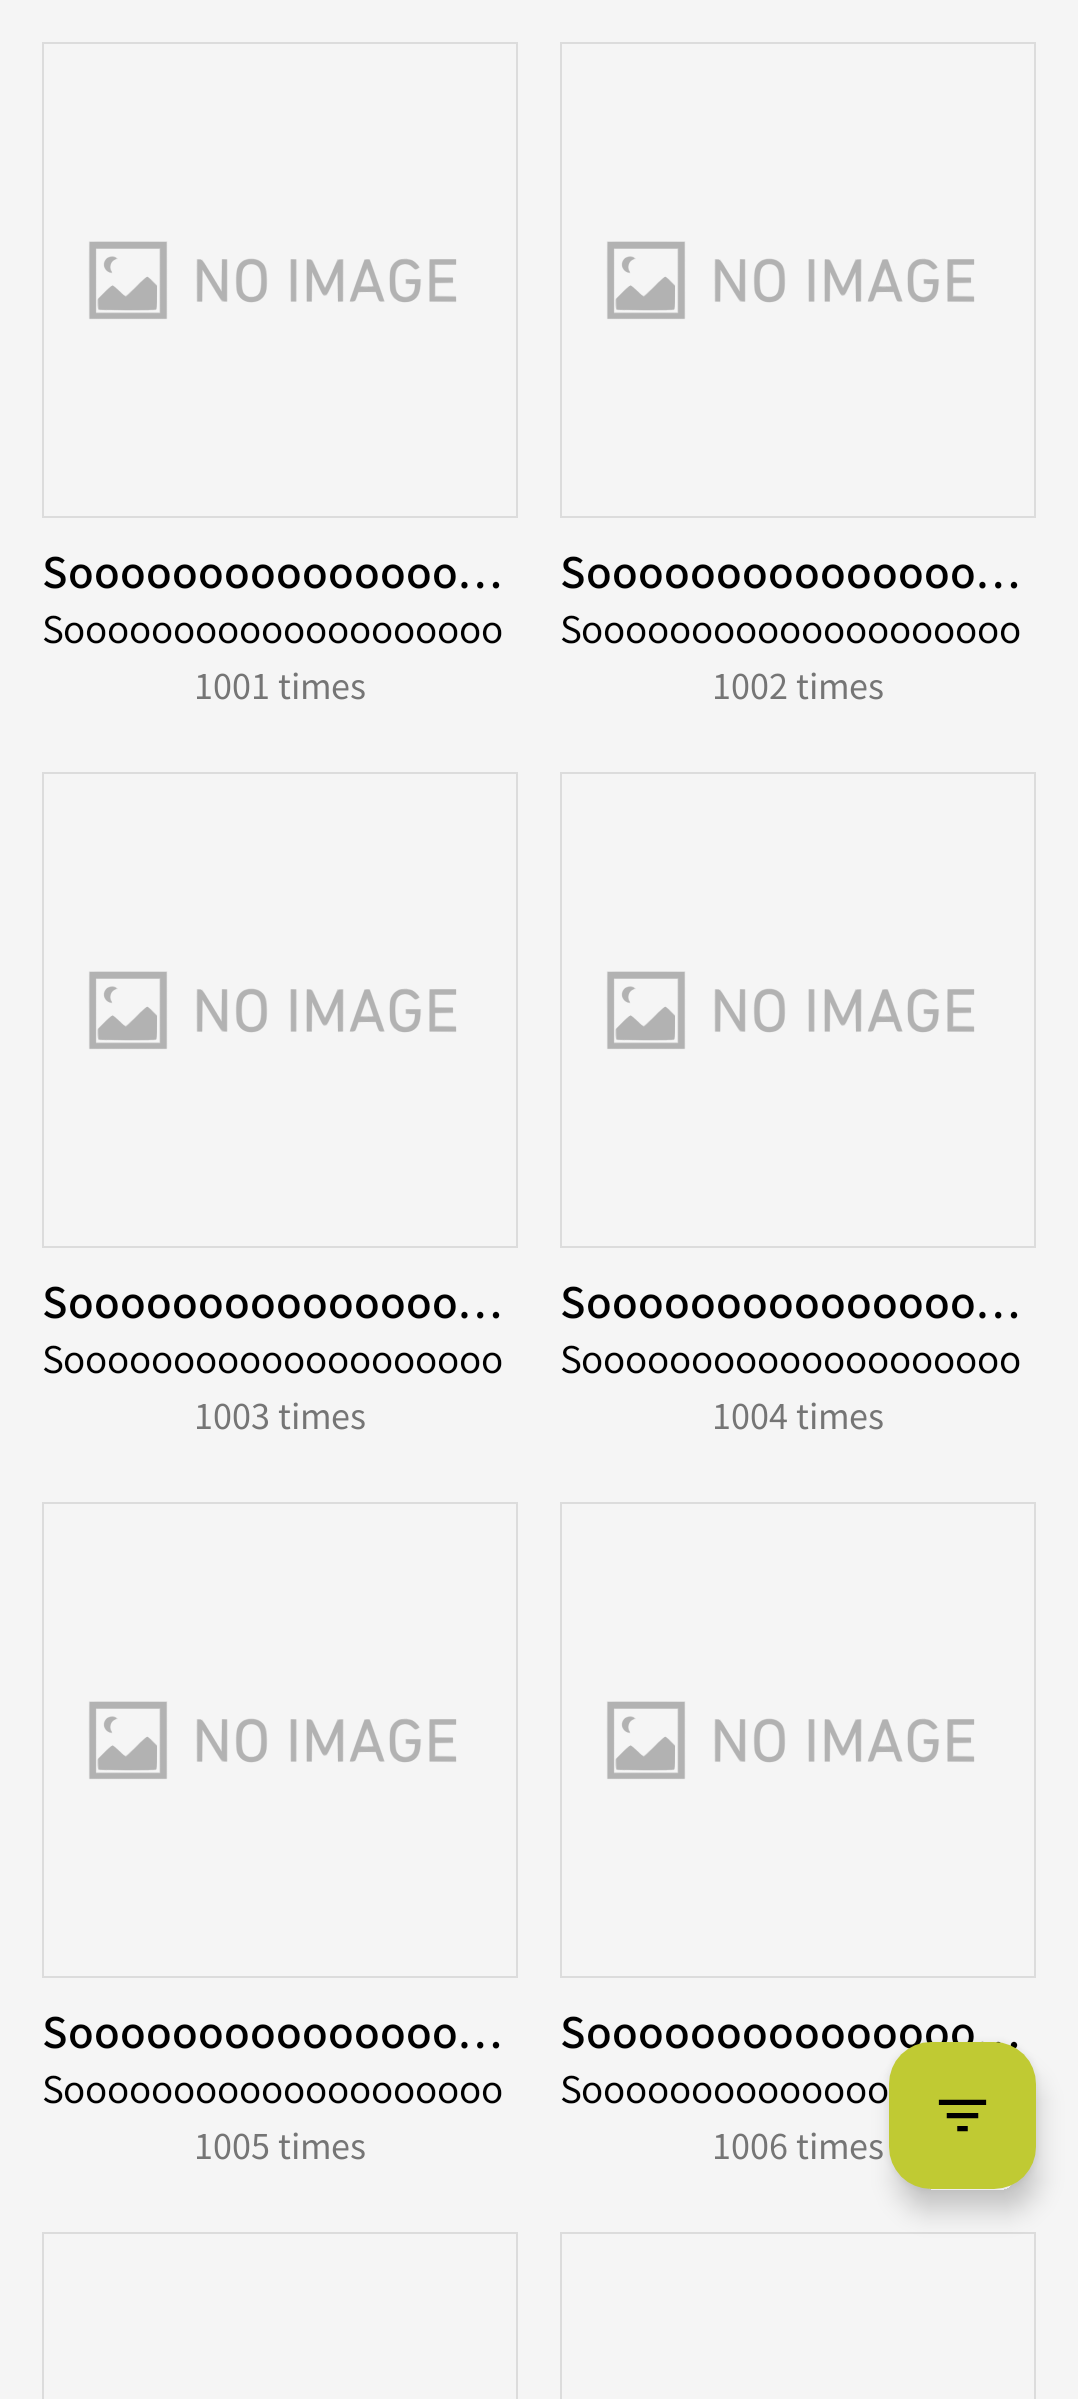
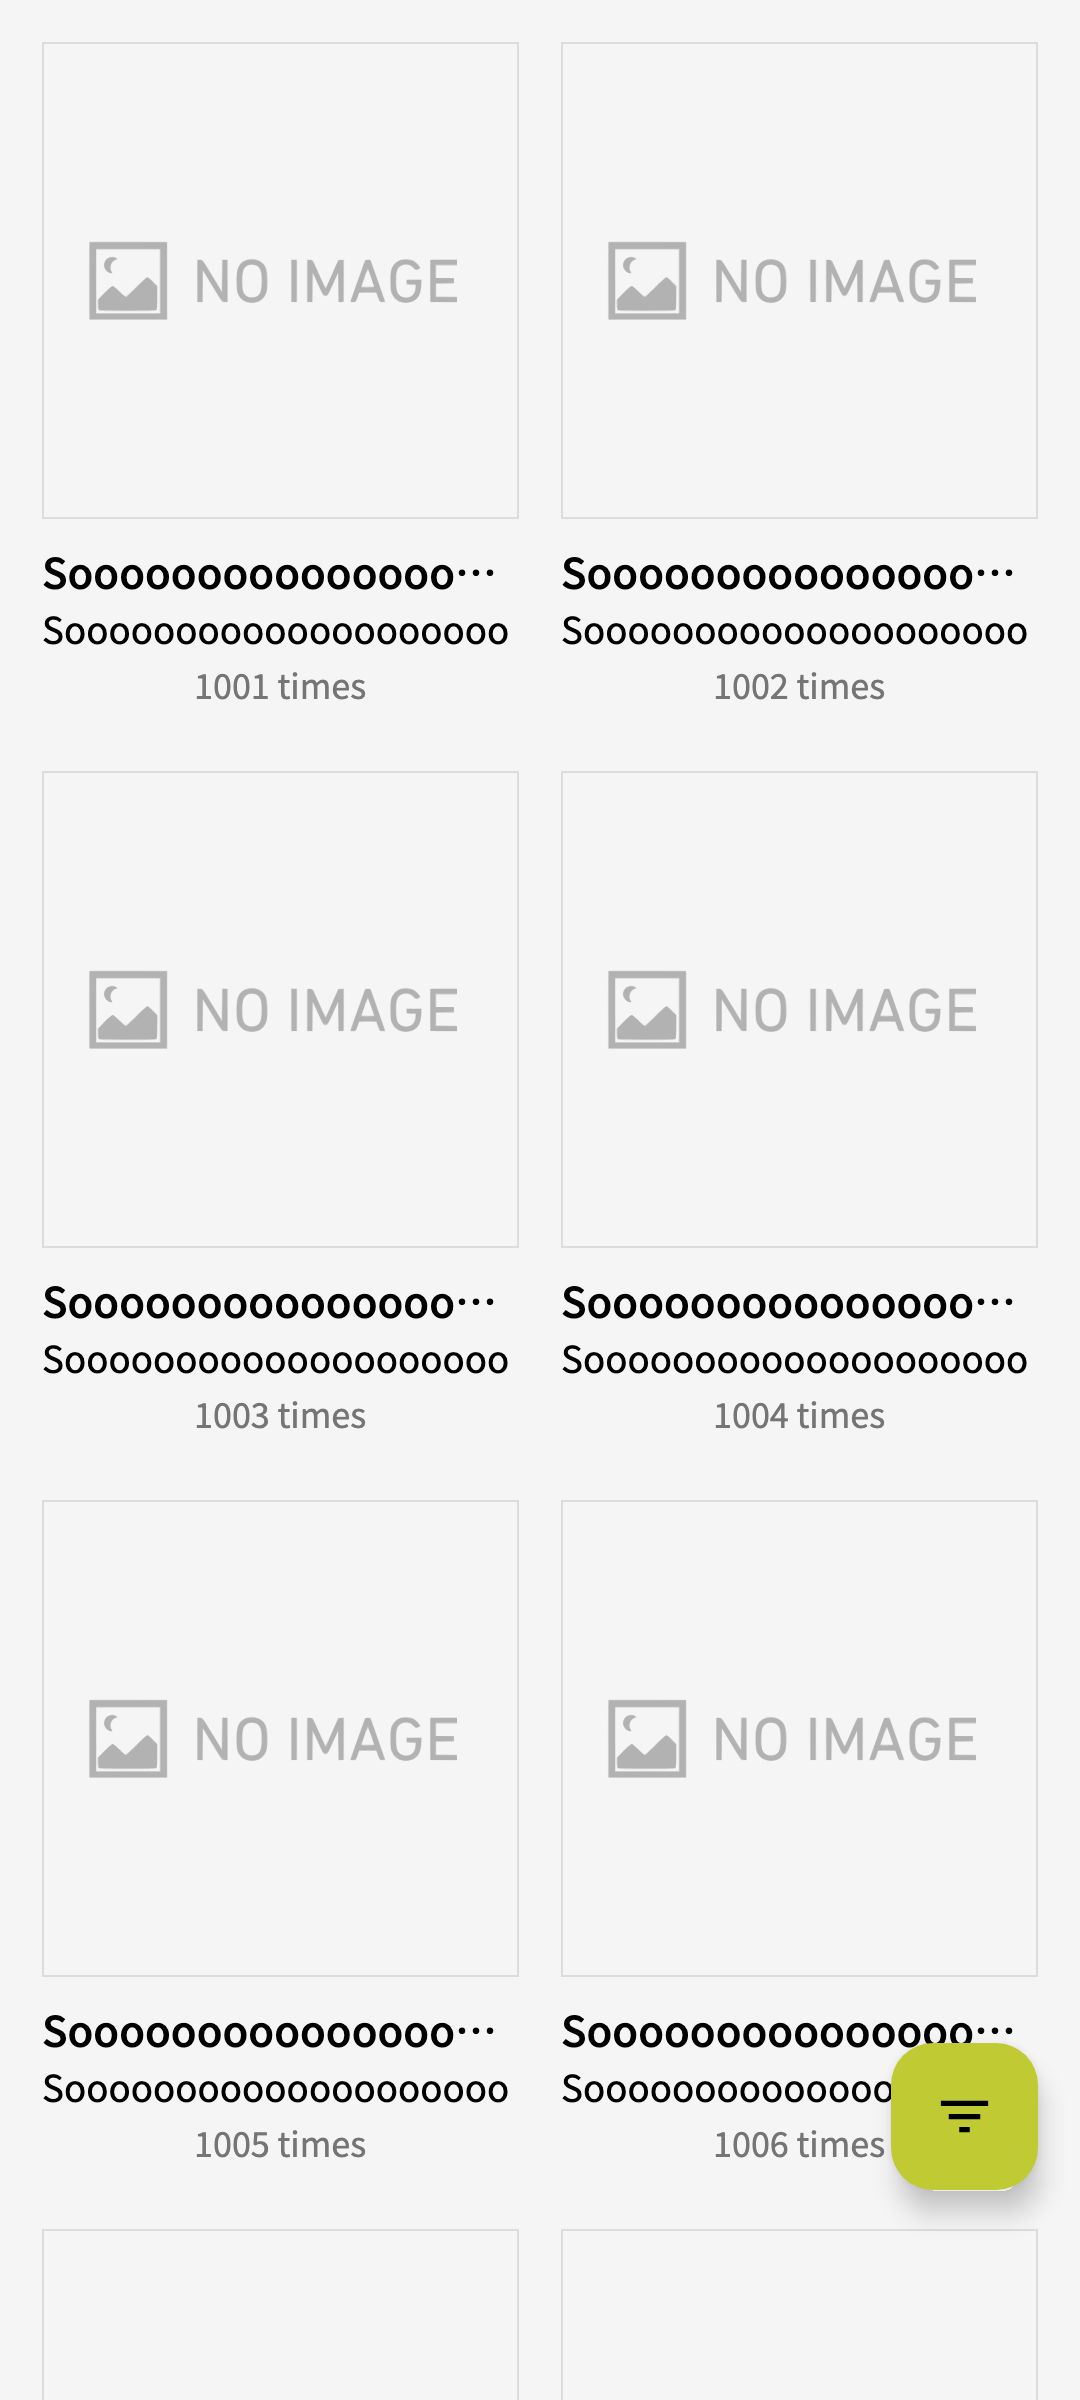
build(album): convert :feature:album to KMP and render its VRT on the JVM
- Replace the sunsetscrob.android.* plugins with sunsetscrob.library,
  compose, metro and test.screenshot; keep only module dependencies in
  build.gradle.kts
- Move sources to src/commonMain/kotlin, the manifest to
  src/androidMain and tests to src/jvmTest/kotlin
- TopAlbumsScreen: derive landscape from LocalWindowInfo.containerSize
  instead of LocalConfiguration and use the common BackHandler
- TopAlbum: read playcount strings through ui_common Compose Resources
  instead of ui_common.R
- Drop the unused menu_top_albums Android string resource
- Rewrite AlbumScreenTest and TopAlbumsScreenTest as JUnit 5 @Tag("VRT")
  tests on the top-level captureScreenshot; re-record goldens on the JVM

diff --git a/feature/album/src/jvmTest/kotlin/com/mataku/scrobscrob/album/ui/screen/TopAlbumsScreenTest.kt b/feature/album/src/jvmTest/kotlin/com/mataku/scrobscrob/album/ui/screen/TopAlbumsScreenTest.kt
@@ -2,18 +2,15 @@ package com.mataku.scrobscrob.album.ui.screen
 
 import androidx.compose.animation.AnimatedContentScope
 import androidx.compose.animation.SharedTransitionLayout
-import androidx.compose.ui.test.junit4.v2.createComposeRule
 import androidx.compose.ui.test.onAllNodesWithText
 import androidx.compose.ui.test.onFirst
 import androidx.compose.ui.test.performClick
-import androidx.test.ext.junit.runners.AndroidJUnit4
-import com.github.takahirom.roborazzi.RobolectricDeviceQualifiers
 import com.mataku.scrobscrob.album.ui.viewmodel.AlbumViewModel
 import com.mataku.scrobscrob.album.ui.viewmodel.TopAlbumsViewModel
 import com.mataku.scrobscrob.core.entity.AppTheme
 import com.mataku.scrobscrob.core.entity.TimeRangeFiltering
 import com.mataku.scrobscrob.core.entity.TopAlbumInfo
-import com.mataku.scrobscrob.test_helper.integration.VRT
+import com.mataku.scrobscrob.test_helper.integration.ScreenshotDevice
 import com.mataku.scrobscrob.test_helper.integration.captureScreenshot
 import com.mataku.scrobscrob.test_helper.integration.fixture.sampleAlbumInfo
 import com.mataku.scrobscrob.ui_common.component.designsystem.rememberSunsetTopAppBarScrollBehavior
@@ -22,19 +19,11 @@ import io.mockk.mockk
 import kotlinx.collections.immutable.persistentListOf
 import kotlinx.collections.immutable.toImmutableList
 import kotlinx.coroutines.flow.MutableStateFlow
-import org.junit.Rule
-import org.junit.Test
-import org.junit.experimental.categories.Category
-import org.junit.runner.RunWith
-import org.robolectric.annotation.GraphicsMode
+import org.junit.jupiter.api.Tag
+import org.junit.jupiter.api.Test
 
-@RunWith(AndroidJUnit4::class)
-@GraphicsMode(GraphicsMode.Mode.NATIVE)
-@Category(VRT::class)
+@Tag("VRT")
 class TopAlbumsScreenTest {
-  @get:Rule
-  val composeRule = createComposeRule()
-
   private val topAlbums = (1..20).map {
     TopAlbumInfo(
       artist = "SooooooooooooooooooooooLongArtistname $it",
@@ -62,7 +51,7 @@ class TopAlbumsScreenTest {
   @Test
   fun layout() {
     val viewModel = stubTopAlbumsViewModel()
-    composeRule.captureScreenshot(
+    captureScreenshot(
       appTheme = AppTheme.DARK,
       content = {
         SharedTransitionLayout {
@@ -84,7 +73,7 @@ class TopAlbumsScreenTest {
   @Test
   fun layout_light() {
     val viewModel = stubTopAlbumsViewModel()
-    composeRule.captureScreenshot(
+    captureScreenshot(
       appTheme = AppTheme.LIGHT,
       content = {
         SharedTransitionLayout {
@@ -106,8 +95,8 @@ class TopAlbumsScreenTest {
   @Test
   fun layout_tablet() {
     val viewModel = stubTopAlbumsViewModel()
-    composeRule.captureScreenshot(
-      device = RobolectricDeviceQualifiers.PixelTablet,
+    captureScreenshot(
+      device = ScreenshotDevice.PixelTablet,
       appTheme = AppTheme.DARK,
       content = {
         SharedTransitionLayout {
@@ -140,8 +129,8 @@ class TopAlbumsScreenTest {
         )
       )
     }
-    composeRule.captureScreenshot(
-      device = RobolectricDeviceQualifiers.PixelTablet,
+    captureScreenshot(
+      device = ScreenshotDevice.PixelTablet,
       appTheme = AppTheme.DARK,
       content = {
         SharedTransitionLayout {
@@ -157,8 +146,8 @@ class TopAlbumsScreenTest {
         }
       },
       actionsBeforeCapturing = {
-        composeRule.onAllNodesWithText("SooooooooooooooooooooooLongAlbumname 1").onFirst().performClick()
-        composeRule.waitForIdle()
+        onAllNodesWithText("SooooooooooooooooooooooLongAlbumname 1").onFirst().performClick()
+        waitForIdle()
       },
       fileName = "top_albums_screen_tablet_two_pane.png"
     )

diff --git a/feature/album/src/jvmTest/kotlin/com/mataku/scrobscrob/album/ui/screen/AlbumScreenTest.kt b/feature/album/src/jvmTest/kotlin/com/mataku/scrobscrob/album/ui/screen/AlbumScreenTest.kt
@@ -2,33 +2,22 @@ package com.mataku.scrobscrob.album.ui.screen
 
 import androidx.compose.animation.AnimatedContentScope
 import androidx.compose.animation.SharedTransitionLayout
-import androidx.compose.ui.test.junit4.v2.createComposeRule
-import androidx.test.ext.junit.runners.AndroidJUnit4
-import com.github.takahirom.roborazzi.RobolectricDeviceQualifiers
 import com.mataku.scrobscrob.album.ui.navigation.AlbumKey
 import com.mataku.scrobscrob.album.ui.viewmodel.AlbumViewModel
 import com.mataku.scrobscrob.core.entity.AppTheme
 import com.mataku.scrobscrob.data.repository.AlbumRepository
-import com.mataku.scrobscrob.test_helper.integration.VRT
+import com.mataku.scrobscrob.test_helper.integration.ScreenshotDevice
 import com.mataku.scrobscrob.test_helper.integration.captureScreenshot
 import com.mataku.scrobscrob.test_helper.integration.fixture.sampleAlbumInfo
 import io.mockk.every
 import io.mockk.mockk
 import kotlinx.coroutines.flow.flowOf
-import org.junit.Before
-import org.junit.Rule
-import org.junit.Test
-import org.junit.experimental.categories.Category
-import org.junit.runner.RunWith
-import org.robolectric.annotation.GraphicsMode
+import org.junit.jupiter.api.BeforeEach
+import org.junit.jupiter.api.Tag
+import org.junit.jupiter.api.Test
 
-@RunWith(AndroidJUnit4::class)
-@GraphicsMode(GraphicsMode.Mode.NATIVE)
-@Category(VRT::class)
+@Tag("VRT")
 class AlbumScreenTest {
-  @get:Rule
-  val composeRule = createComposeRule()
-
   private val artistName = "aespa"
   private val artworkUrl = ""
   private val albumName = "Drama"
@@ -36,7 +25,7 @@ class AlbumScreenTest {
   private val albumRepository = mockk<AlbumRepository>()
   private val animatedContentScope = mockk<AnimatedContentScope>(relaxed = true)
 
-  @Before
+  @BeforeEach
   fun setup() {
     every {
       albumRepository.albumInfo(
@@ -54,7 +43,7 @@ class AlbumScreenTest {
       key = key
     )
 
-    composeRule.captureScreenshot(
+    captureScreenshot(
       appTheme = AppTheme.DARK,
       content = {
         SharedTransitionLayout {
@@ -79,7 +68,7 @@ class AlbumScreenTest {
       key = key
     )
 
-    composeRule.captureScreenshot(
+    captureScreenshot(
       fileName = "album_screen_light.png",
       content = {
         SharedTransitionLayout {
@@ -104,8 +93,8 @@ class AlbumScreenTest {
       key = key
     )
 
-    composeRule.captureScreenshot(
-      device = RobolectricDeviceQualifiers.PixelTablet,
+    captureScreenshot(
+      device = ScreenshotDevice.PixelTablet,
       appTheme = AppTheme.DARK,
       content = {
         SharedTransitionLayout {

diff --git a/feature/album/src/commonMain/kotlin/com/mataku/scrobscrob/album/ui/screen/TopAlbumsScreen.kt b/feature/album/src/commonMain/kotlin/com/mataku/scrobscrob/album/ui/screen/TopAlbumsScreen.kt
@@ -1,8 +1,5 @@
 package com.mataku.scrobscrob.album.ui.screen
 
-import android.annotation.SuppressLint
-import android.content.res.Configuration
-import androidx.activity.compose.BackHandler
 import androidx.compose.animation.AnimatedContentScope
 import androidx.compose.animation.AnimatedVisibilityScope
 import androidx.compose.animation.SharedTransitionScope
@@ -21,9 +18,11 @@ import androidx.compose.runtime.remember
 import androidx.compose.runtime.rememberCoroutineScope
 import androidx.compose.runtime.setValue
 import androidx.compose.ui.Alignment
+import androidx.compose.ui.ExperimentalComposeUiApi
 import androidx.compose.ui.Modifier
+import androidx.compose.ui.backhandler.BackHandler
 import androidx.compose.ui.input.nestedscroll.nestedScroll
-import androidx.compose.ui.platform.LocalConfiguration
+import androidx.compose.ui.platform.LocalWindowInfo
 import androidx.compose.ui.unit.dp
 import androidx.lifecycle.compose.collectAsStateWithLifecycle
 import com.mataku.scrobscrob.album.ui.molecule.TopAlbum
@@ -49,7 +48,6 @@ import com.mataku.scrobscrob.ui_common.style.isCompactWidth
 import kotlinx.collections.immutable.ImmutableList
 import kotlinx.coroutines.launch
 
-@SuppressLint("UnusedMaterial3ScaffoldPaddingParameter")
 @Composable
 fun TopAlbumsScreen(
   sharedTransitionScope: SharedTransitionScope,
@@ -121,7 +119,7 @@ fun TopAlbumsScreen(
   }
 }
 
-@SuppressLint("UnusedMaterial3ScaffoldPaddingParameter")
+@OptIn(ExperimentalComposeUiApi::class)
 @Composable
 private fun TopAlbumsCompact(
   sharedTransitionScope: SharedTransitionScope,
@@ -137,8 +135,8 @@ private fun TopAlbumsCompact(
   var showBottomSheet by remember { mutableStateOf(false) }
   val bottomSheetState = rememberSunsetModalBottomSheetState()
   val coroutineScope = rememberCoroutineScope()
-  val configuration = LocalConfiguration.current
-  val orientation = remember { configuration.orientation }
+  val containerSize = LocalWindowInfo.current.containerSize
+  val isLandscape = containerSize.width > containerSize.height
 
   BackHandler(bottomSheetState.isVisible) {
     coroutineScope.launch { bottomSheetState.hide() }
@@ -160,7 +158,7 @@ private fun TopAlbumsCompact(
       albums = uiState.topAlbums,
       hasNext = uiState.hasNext,
       onScrollEnd = onScrollEnd,
-      maxSpanCount = if (orientation == Configuration.ORIENTATION_LANDSCAPE) 4 else 2,
+      maxSpanCount = if (isLandscape) 4 else 2,
       onAlbumTap = onAlbumTap,
       useSharedElement = useSharedElement,
       modifier = Modifier.nestedScroll(topAppBarScrollBehavior.nestedScrollConnection),

diff --git a/feature/album/src/commonMain/kotlin/com/mataku/scrobscrob/album/ui/molecule/TopAlbum.kt b/feature/album/src/commonMain/kotlin/com/mataku/scrobscrob/album/ui/molecule/TopAlbum.kt
@@ -15,7 +15,6 @@ import androidx.compose.runtime.Composable
 import androidx.compose.ui.Alignment
 import androidx.compose.ui.Modifier
 import androidx.compose.ui.layout.ContentScale
-import androidx.compose.ui.res.stringResource
 import androidx.compose.ui.text.font.FontWeight
 import androidx.compose.ui.text.style.TextOverflow
 import androidx.compose.ui.tooling.preview.Preview
@@ -27,8 +26,11 @@ import com.mataku.scrobscrob.ui_common.component.designsystem.SunsetImage
 import com.mataku.scrobscrob.ui_common.style.LocalAppTheme
 import com.mataku.scrobscrob.ui_common.style.SunsetThemePreview
 import com.mataku.scrobscrob.ui_common.style.onSecondaryColor
+import com.mataku.scrobscrob.ui_common.generated.resources.Res
+import com.mataku.scrobscrob.ui_common.generated.resources.playcount
+import com.mataku.scrobscrob.ui_common.generated.resources.playcounts
 import kotlinx.collections.immutable.persistentListOf
-import com.mataku.scrobscrob.ui_common.R as uiCommonR
+import org.jetbrains.compose.resources.stringResource
 
 @Composable
 internal fun TopAlbum(
@@ -91,9 +93,9 @@ internal fun TopAlbum(
     )
     Spacer(modifier = Modifier.height(2.dp))
     val playCountResource = if (album.playCount == "1") {
-      uiCommonR.string.playcount
+      Res.string.playcount
     } else {
-      uiCommonR.string.playcounts
+      Res.string.playcounts
     }
     SunsetText.Caption(
       text = stringResource(playCountResource, album.playCount),
